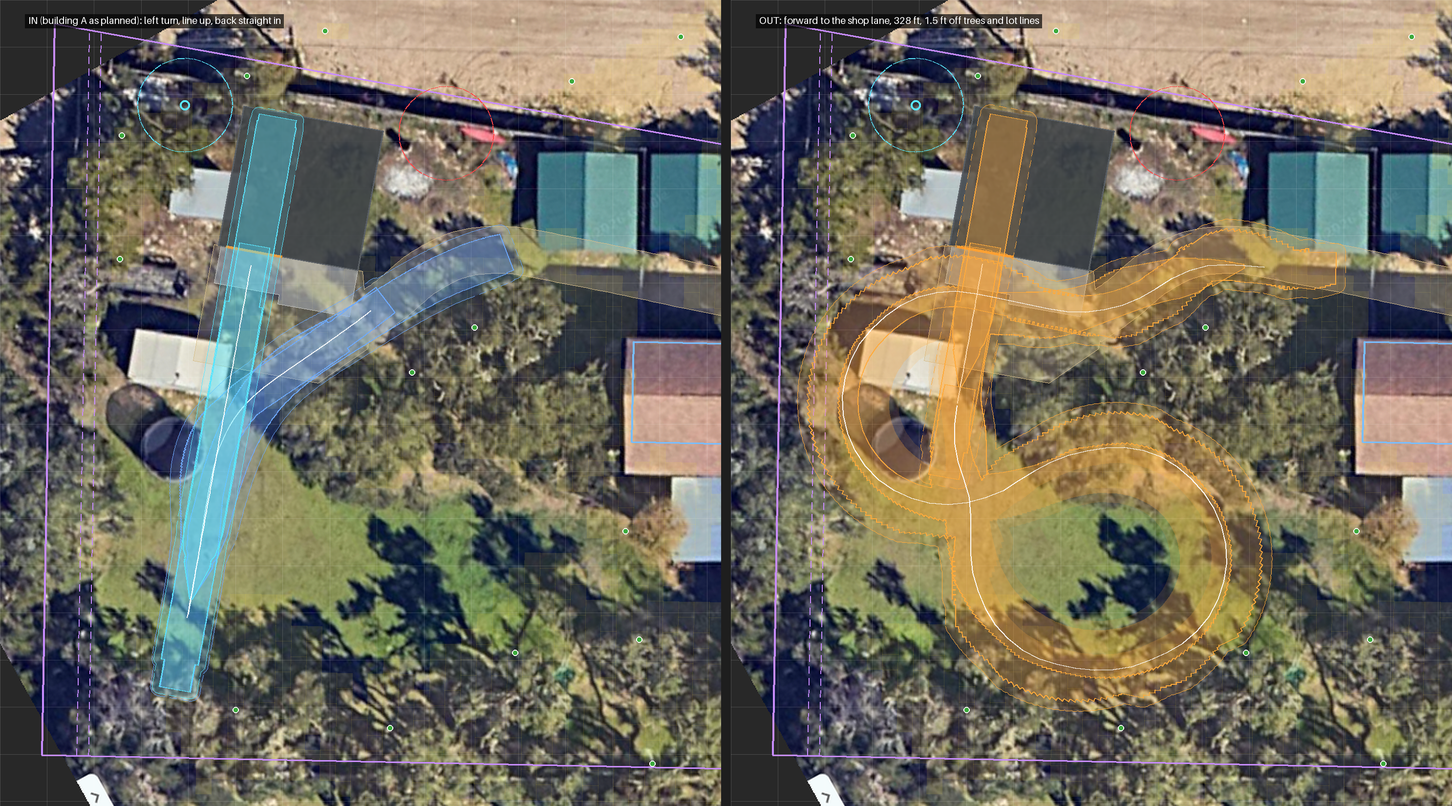
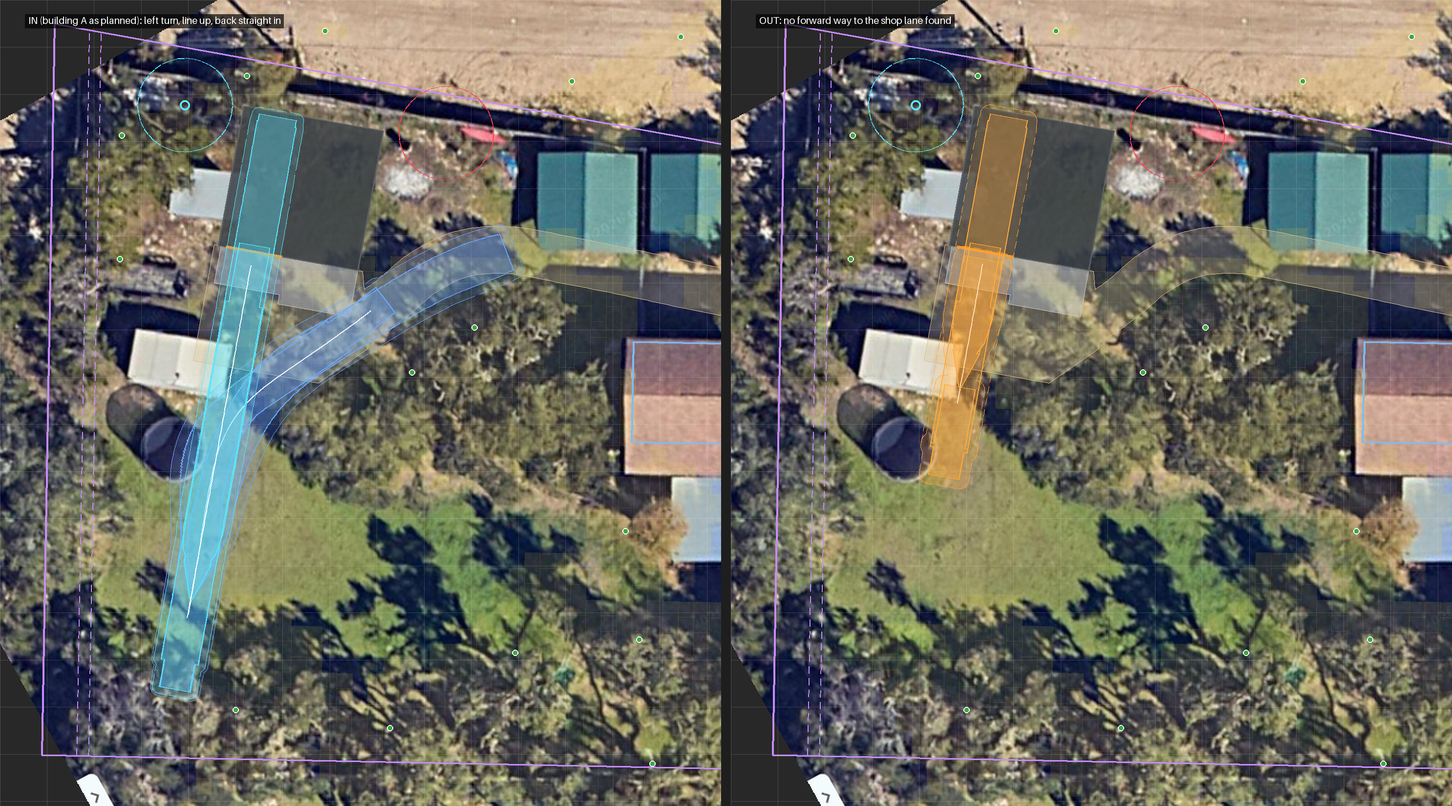
Towing: the way out fits with building A turned 22.5 degrees counter-clockwise
Two corrections to the earlier search. It had to reach the shop lane nearly straight, which
ruled out ways a driver would take; it now finishes within 4 ft and 20 degrees, the trailer
within 25. And with only trunks as obstacles it drove under the middle of the back-lawn oaks'
crowns; the boat may now go only their outer 6 ft in, limbs an arborist can raise.

Set up that way, there's no forward way out as planned or turned 10 degrees either way: each
runs the boat ~19 ft under the crowns. Turned 22.5 degrees counter-clockwise (the owner's
guess) and moved 4.8 ft off the fence, one 184 ft forward move fits 3.5 ft off trunks and lot
lines and only brushes the crowns, about $1k cheaper. The window is narrow (20-24 degrees).
The 10 degree clockwise maps and notes are replaced.

Claude-Session: https://claude.ai/code/session_01DDx3ED6GLpo1Endgi9HoEQ

Changed region(s): [[0.5572, 0.2782, 0.9287, 0.8964], [0.5572, 0.0, 0.712, 0.0618]]

diff --git a/tools/tow_plan.py b/tools/tow_plan.py
@@ -27,14 +27,15 @@ The driver is reasonably good, not a computer. So:
   doesn't count on it.);
 - the hitch angle stays well short of the angle where the boat's bow or the tongue meets the truck's tailgate;
 - the way out (EXITS, search_exit) keeps a margin off the trunks and the lot lines, and the more the better: 1.5 ft
-  is a computer's line, 3.5 ft a person's.
+  is a computer's line, 3.5 ft a person's. The boat may pass under the back-lawn oaks' outer CROWN_EDGE ft (limbs an
+  arborist can raise), not deeper; the drive may run under them, as drawn.
 
 What it found (Oct 30 2026): the back-in fits as asked. The way out doesn't, as one left sweep from the door: the
-back-lawn oaks stand inside the circle it needs. With building A as planned, the only all-forward way onto the shop
-lane is a 330 ft figure-eight with 1.5 ft to spare. Turned 10 degrees clockwise (the doors toward the SW and the open
-lawn; --turn -10) and moved 2.5 ft off the line, it's one sweep: a touch right, a long left loop round the lawn and
-up past the oaks onto the lane, 196 ft, with 3.5 ft to spare. Turning the doors toward the SE, or a full 45 degrees
-either way, makes it worse.
+back-lawn oaks stand inside the circle it needs. With building A as planned, or turned 10 degrees either way, the
+only forward ways out run the boat up to ~19 ft in under those crowns. Turned 22.5 degrees counter-clockwise (the
+doors toward the SSE; --turn 22.5) and moved 4.6 ft off the line, it's one forward sweep: out, a big right loop round
+the open west lawn, then east along the front of the building onto the lane, 184 ft, 3.5 ft off the trunks and lot
+lines and only brushing the crowns' edges. 17.5, 21.25 and 25 degrees don't fit; 45 either way doesn't.
 
 Draws site/tow-paths.png (the whole way from the street) and site/tow-backyard.png (the back yard close up; with
 --turn, site/tow-*-turnN.png), and prints the space each move takes and what it comes near: the building, the house,
@@ -273,18 +274,20 @@ class Phase:
 
 
 # The way out. A left sweep straight from the door can't reach the shop lane: the back-lawn oaks stand inside the
-# circle it needs. What fits is the sweep a driver makes by swinging wide: a touch right toward the back fence, one long
-# left loop round the open lawn, up past the oaks' west side onto the shop court, and right onto the lane. search_exit()
-# finds it: A* over this rig's moves at R_PLAN, forward only, the hitch under 55 degrees, keeping `margin` off the
-# trunks and lot lines and 1.5 ft off the building. Found paths are kept here by building A's turn (degrees, rot_study)
-# as (margin, program); a program is (direction, ft, wheel) moves, the wheel from -1 (right, at R_PLAN) to +1 (left),
-# replayed in REPLAY_STEP steps. --search finds them again (minutes).
+# circle it needs. search_exit() looks for any forward way: A* over this rig's moves at R_PLAN, the hitch under 55
+# degrees, keeping `margin` off the trunks and lot lines, 1.5 ft off the building, and the boat out of the back-lawn
+# oaks' crowns deeper than CROWN_EDGE (but the drive). It may arrive on the lane bent a little (SEARCH_FINISH) and
+# straighten on it. Results are kept here by building A's turn in degrees: (margin, program, or None if none was found
+# at that margin); a program is (direction, ft, wheel) moves, the wheel from -1 (right, at R_PLAN) to +1 (left),
+# replayed in REPLAY_STEP steps. --search finds them again (a minute or a few).
 EXITS = {
-    0.0: (1.5, [(1, 4, 0.5), (1, 8, 1), (1, 4, 0.5), (1, 8, -1), (1, 8, 0), (1, 8, 1), (1, 4, 0.5), (1, 20, 1), (1, 4, 0), (1, 4, 1), (1, 4, 0.5), (1, 8, 1), (1, 4, 0), (1, 40, 1), (1, 4, 0.5), (1, 20, 1), (1, 8, 0.5), (1, 4, 1), (1, 4, 0), (1, 4, 1), (1, 8, -1), (1, 4, -0.5), (1, 56, -1), (1, 4, -0.5), (1, 20, -1), (1, 16, 0), (1, 4, 0.5), (1, 4, 1), (1, 4, 0.5), (1, 4, 1), (1, 4, 0.5), (1, 4, 1), (1, 4, -0.5), (1, 12, -1), (1, 4, -0.5), (1, 4, 0.5)]),
-    -10.0: (3.5, [(1, 4, -1), (1, 4, 0), (1, 4, -0.5), (1, 4, 0.5), (1, 12, 1), (1, 4, 0.5), (1, 28, 1), (1, 4, 0.5), (1, 8, 1), (1, 4, 0.5), (1, 4, 1), (1, 4, 0.5), (1, 24, 1), (1, 4, 0.5), (1, 4, 1), (1, 4, -0.5), (1, 12, -1), (1, 4, 0.5), (1, 8, -0.5), (1, 4, 0.5), (1, 4, -0.5), (1, 32, -1), (1, 4, -0.5), (1, 4, 0.5), (1, 4, 1)]),
+    0.0: (1.5, None),
+    22.5: (3.5, [(1, 56, -1), (1, 4, -0.5), (1, 20, -1), (1, 4, -0.5), (1, 20, -1), (1, 4, -0.5), (1, 8, -1), (1, 12, 0), (1, 4, 1), (1, 4, 0), (1, 12, 1), (1, 4, -0.5), (1, 4, 0), (1, 4, 0.5), (1, 4, -1), (1, 4, 1), (1, 4, -0.5), (1, 8, -1), (1, 4, -0.5)]),
 }
 REPLAY_STEP = 1.0       # ft: the search's own step, so its paths replay exactly
 SEARCH_GOAL = (148.0, 108.4)   # (s, t): on the shop lane east of the shop court, past the building's SE corner
+SEARCH_FINISH = (4.0, 20.0, 25.0)   # ft off the goal, degrees off the lane's line, degrees of bend: then straighten on it
+CROWN_EDGE = 6.0        # ft: how far in under the back-lawn oaks' crowns (lidar tops of 12 ft or more) the boat may go
 
 
 def replay(p: Pose, tr: Truck, k_max: float, program) -> list[Pose]:
@@ -302,8 +305,9 @@ def outline_pts(poly: Polygon, every: float = 1.0) -> np.ndarray:
     return np.array([ring.interpolate(d).coords[0] for d in np.arange(0, ring.length, every)])
 
 
-def search_exit(start: Pose, tr: Truck, k_max: float, walls, trunks, lot: Polygon, margin: float, cap: int = 300000):
-    """The shortest forward way from start onto the shop lane at SEARCH_GOAL, as a program, or None."""
+def search_exit(start: Pose, tr: Truck, k_max: float, walls, trunks, lot: Polygon, crowns, margin: float, cap: int = 400000):
+    """The shortest forward way from start onto the shop lane at SEARCH_GOAL, as a program, or None. crowns: where
+    the boat may not go under the trees."""
     import heapq
 
     import shapely
@@ -312,7 +316,7 @@ def search_exit(start: Pose, tr: Truck, k_max: float, walls, trunks, lot: Polygo
     ss, tt = np.meshgrid(s0 + (np.arange(ns) + 0.5) * res, t0 + (np.arange(nt) + 0.5) * res)
     others = unary_union([Point(q).buffer(2.0) for q in trunks]).buffer(margin)
     grid = (shapely.contains_xy(walls.buffer(0.3 + 1.5), ss.ravel(), tt.ravel()) | shapely.contains_xy(others, ss.ravel(), tt.ravel())
-            | ~shapely.contains_xy(lot.buffer(-margin), ss.ravel(), tt.ravel())).reshape(nt, ns)
+            | shapely.contains_xy(crowns, ss.ravel(), tt.ravel()) | ~shapely.contains_xy(lot.buffer(-margin), ss.ravel(), tt.ravel())).reshape(nt, ns)
     tp_, bp_ = outline_pts(truck_shape(tr)), outline_pts(boat_shape())
 
     def hits(p: Pose) -> bool:
@@ -338,7 +342,8 @@ def search_exit(start: Pose, tr: Truck, k_max: float, walls, trunks, lot: Polygo
         _, g, i = heapq.heappop(openq)
         p = nodes[i][0]
         n_exp += 1
-        if math.hypot(p.x - gx, p.y - gy) < 3.0 and abs(wrap(p.th - g_head)) < math.radians(12) and hitch_deg(p) < 12:
+        if (math.hypot(p.x - gx, p.y - gy) < SEARCH_FINISH[0] and abs(wrap(p.th - g_head)) < math.radians(SEARCH_FINISH[1])
+                and hitch_deg(p) < SEARCH_FINISH[2]):
             prog, j = [], i
             while nodes[j][1] is not None:
                 q, parent, wheel = nodes[j]
@@ -428,7 +433,7 @@ def moves(tr: Truck, k_max: float, A, exit_program) -> list[Phase]:
     lead = [to_st((q.x + k * math.cos(q.th), q.y + k * math.sin(q.th))) for k in (0.0, 6.0)]
     lane_out = ([p for p in SHOP_LANE[::-1][:-1] if p[0] < lead[-1][0] - 8.0] + court[::-1] + SERVICE_DRIVE[4:0:-1]
                 + [(9.0, 94.0), (-3.0, 95.5), (-17.0, 96.5), (-29.0, 101.0), (-33.8, 114.0), (-33.8, 178.0)])
-    lanes_out = drive(q, tr, densify(lead + lane_out, 8), k_max)
+    lanes_out = drive(q, tr, densify(lead + lane_out, 8), k_max) if exit_program else [q]
     return [Phase("in: the street to the shop court", lanes_in, "in"),
             Phase("in: the left turn, lined up on the door", turn, "in"),
             Phase("in: straight back into the bay", back, "back", REVERSE_MARGIN),
@@ -558,21 +563,24 @@ def main(truck: str, radius: float, turn: float, search: bool, margin: float | N
     for t in tr_list:
         if not t["known"]:
             t["name"] = t["name"].replace("lidar treetop", "treetop") + " (trunk?)"
+    can = Canopy(CANOPY)
+    # The back-lawn oaks' crowns, deeper in than CROWN_EDGE, off the drive: where the boat can't go.
+    crowns = unary_union([box(s_ - 1.64, t_ - 1.64, s_ + 1.64, t_ + 1.64) for s_, t_, h, r, c in canopy_in_st(can, to_m, sf)
+                          if h >= 12 and s_ > 135 and t_ < 112]).buffer(0.5).buffer(-0.5)
+    no_go = crowns.buffer(-CROWN_EDGE).difference(unary_union([L["drive"], L["approach"]]).buffer(2.0))
     stored = EXITS.get(turn) if truck == "half" and radius == R_PLAN else None
     if search or stored is None:
-        margin = margin if margin is not None else (stored[0] if stored else 2.5)
-        click.echo(f"Searching for the way out, {margin:g} ft off the trees and lot lines (a few minutes)...")
+        margin = margin if margin is not None else (stored[0] if stored else 3.5)
+        click.echo(f"Searching for the way out, {margin:g} ft off the trees and lot lines (a minute or a few)...")
         probe = moves(tr, k_max, A, [])
         back_trunks = [t["st"] for t in tr_list if 100 < t["st"][0] < 260 and -10 < t["st"][1] < 165]
-        program = search_exit(probe[3].poses[-1], tr, k_max, walls, back_trunks, lot, margin)
-        if program:
-            click.echo("found: " + repr([(d, round(ft), w) for d, ft, w in program]))
+        program = search_exit(probe[3].poses[-1], tr, k_max, walls, back_trunks, lot, no_go, margin)
+        click.echo("found: " + repr([(d, round(ft), w) for d, ft, w in program]) if program else "none found")
     else:
         margin, program = stored
     phases = moves(tr, k_max, A, program)
     for ph in phases:
         ph.swept(tr)
-    can = Canopy(CANOPY)
     cells = [(Point(s_, t_), h) for s_, t_, h, r, c in canopy_in_st(can, to_m, sf) if -45 < s_ < 260 and -10 < t_ < 170]
     gz = lambda s_, t_: ground.natural(*to_m(site([st(s_, t_)])[0])) / FT  # noqa: E731
     cfg = dict(tbl_hide_dataframe_shape=True, tbl_hide_column_data_types=True, tbl_rows=-1, fmt_str_lengths=60, tbl_width_chars=230)
@@ -598,9 +606,9 @@ def main(truck: str, radius: float, turn: float, search: bool, margin: float | N
                           "nearest tree (ft)": f"{near[0]:.1f}: {near[1]}", "septic pipe": round(ph.rig.distance(Point(pipe)), 1),
                           "well": round(ph.rig.distance(Point(well)), 1),
                           "lot line": round(ph.rig.distance(lot.exterior), 1) if lot.contains(ph.rig) else "the street"})
-        crowns = [h for pt, h in cells if ph.boat.contains(pt)]
+        tops = [h for pt, h in cells if ph.boat.contains(pt)]
         room_rows.append({"move": ph.name,
-                          "crowns over the boat": f"{len(crowns) * 10.76:.0f} sq ft, tops {min(crowns):.0f}-{max(crowns):.0f} ft" if crowns else "none",
+                          "crowns over the boat": f"{len(tops) * 10.76:.0f} sq ft, tops {min(tops):.0f}-{max(tops):.0f} ft" if tops else "none",
                           "rig off the planned paving (sq ft)": round(ph.rig.difference(paved).intersection(lot).area),
                           "with the margin (sq ft)": round(ph.slop.difference(paved).intersection(lot).area)})
     click.echo("\nThe moves:")
@@ -636,10 +644,15 @@ def main(truck: str, radius: float, turn: float, search: bool, margin: float | N
     if program:
         lane_line = LineString(catmull_rom(SHOP_LANE))
         q = way.poses[-1]
+        under = way.boat.intersection(crowns).difference(unary_union([L["drive"], L["approach"]]).buffer(2.0))
+        deep = max((crowns.boundary.distance(Point(x, y)) for x in np.arange(under.bounds[0], under.bounds[2], 1.0)
+                    for y in np.arange(under.bounds[1], under.bounds[3], 1.0) if under.contains(Point(x, y))), default=0.0) if not under.is_empty else 0.0
         click.echo(f"Out: the sweep is {sum(ft for _, ft, _ in program):.0f} ft, forward all the way, found keeping {margin:g} ft off the "
-                   f"trunks and lot lines; it ends {lane_line.distance(Point(to_st((q.x, q.y)))):.1f} ft off the shop lane's middle.")
+                   f"trunks and lot lines; it ends {lane_line.distance(Point(to_st((q.x, q.y)))):.1f} ft off the shop lane's middle. "
+                   f"Off the drive, the boat passes under {under.area:.0f} sq ft of the back-lawn oaks' crowns, up to {deep:.0f} ft in from their edge.")
     else:
-        click.echo("Out: no forward sweep onto the shop lane found at that margin.")
+        click.echo(f"Out: no forward way onto the shop lane found {margin:g} ft off the trunks and lot lines, the boat no more than "
+                   f"{CROWN_EDGE:g} ft in under the back-lawn oaks' crowns.")
     lawn_in = unary_union([phases[1].slop, phases[2].slop]).difference(paved).intersection(lot)
     lawn_out = way.slop.difference(paved).intersection(lot)
     click.echo(f"The lawn the moves cross, margins included: {lawn_in.area:,.0f} sq ft in, {lawn_out.area:,.0f} sq ft out, "

diff --git a/site/notes.md b/site/notes.md
@@ -3144,51 +3144,67 @@ the tables below.
 - **Out, as asked, doesn't fit.**
   - One left sweep from the door can't reach the shop lane: the back-lawn oaks (lidar
     treetops at s 160, t 92 and s 173, t 83) stand inside the circle it needs.
-  - The only all-forward way a search found (A* over the rig's moves) is a ~330 ft
-    figure-eight with 1.5 ft to spare. With 2.5 ft, none.
-  - A three-point turn fits, but only ~1–2 ft off the building's SE corner, where the boat's
-    stern swings as it turns onto the lane.
+  - A search (A* over the rig's moves, forward and back) found ways out, but every one
+    runs the boat deep under those oaks' crowns, up to ~19 ft in from their edge. The only
+    other kind is a three-point turn that passes ~1–2 ft off the building's SE corner.
+- **How the search was set up, after two corrections (Oct 30):**
+  - At first it had to arrive on the lane within 12° and almost straight. That ruled out
+    ways a driver would take, arriving bent and straightening on the lane. It now finishes
+    within 4 ft and 20° of the lane, the trailer within 25°.
+  - With only the trunks as obstacles, it then drove under the middle of the oak crowns,
+    where the lidar marks no trunk but low limbs and more trunks are likely. Now the boat
+    may go only the outer 6 ft in under a crown, limbs an arborist can raise. The drive
+    runs under them as drawn.
+  - The 10° clockwise turn recommended earlier the same day came from the first setup. It
+    doesn't hold.
 - **Turning the building** (each turned about its middle, then moved straight off the line
-  until 10 ft clear of it, the well and the septic pipe):
+  until 10 ft clear of it, the well and the septic pipe). A forward way out, with the boat
+  no more than 6 ft in under the oaks' crowns:
 
   | Turn | Off the line | Well | Septic pipe | In | Out, forward |
   |---|---|---|---|---|---|
-  | 45° clockwise (doors SW) | +6.2 ft | 17.9 ft | 21.4 ft | runs off the lot | blocked: the pull-out crosses the back line |
-  | 30° clockwise | +5.5 | 17.9 | 18.6 | runs off the lot | one sweep, 160 ft |
-  | 20° clockwise | +4.2 | 16.6 | 15.2 | runs off the lot | one sweep, 176 ft |
-  | **10° clockwise** | **+2.5** | **14.6** | **13.1** | **fits: bumper ~100 ft out, 4.5 ft off the back line** | **one sweep, 196 ft, 3.5 ft margin** |
-  | As planned | 0 | 12.3 | 13.4 | fits: ~94 ft | figure-eight, 1.5 ft margin only |
-  | 10° counter-clockwise (doors toward SE) | +2.5 | 10.5 | 16.2 | fits: ~88 ft | none |
-  | 20° counter-clockwise | +4.2 | 11.6 | 18.8 | fits: ~86 ft | none |
-  | 30° counter-clockwise | +5.5 | 14.7 | 20.7 | runs off the lot | none |
-  | 45° counter-clockwise (doors SE) | +6.2 | 17.9 | 21.4 | runs into a back-lawn oak | one sweep, 188 ft |
+  | 10° clockwise (doors toward SW) | +2.5 ft | 14.6 ft | 13.1 ft | fits | none, even 1.5 ft off trunks and lot lines |
+  | As planned | 0 | 12.3 | 13.4 | fits: bumper ~94 ft out | none at 1.5 ft |
+  | 10° counter-clockwise | +2.5 | 10.5 | 16.2 | fits | none at 1.5 ft |
+  | 15–17.5° counter-clockwise | | | | | none at 2.5 ft |
+  | 20° counter-clockwise | +4.2 | 11.6 | 18.8 | fits | 2.5 ft margin, not 3 |
+  | 21.25° counter-clockwise | | | | | none at 3 ft |
+  | **22.5° counter-clockwise (doors toward SSE)** | **+4.8** | **12.4** | **19.4** | **fits: bumper ~85 ft out** | **184 ft, 3.5 ft margin, not 4** |
+  | 23.75° counter-clockwise | | | | | 3 ft margin |
+  | 25° counter-clockwise | | | | | none at 2.5 ft |
+  | 30° and 45° counter-clockwise | +5.5, +6.2 | | | | blocked: the pull-out runs into the crowns |
 
-  - The sweeps at 20°, 30° and 45° were found at the 1.5 ft margin; 10° clockwise holds at
-    2.5 and 3.5 ft too.
+  - Without the crown limit, every angle from 10° clockwise to 10° counter-clockwise
+    finds a forward way with 7.5 ft to spare, by driving under the crowns' middles. Those
+    paths are 350–420 ft of loops, not a driver's line.
   - The fence line binds at every angle, not the well.
-  - The cost hardly moves: $81.5–82.8k all in (`shed_cost.py` on each footprint, the slab at
-    its cheapest level). The turned ones sit a little lower and dig a little less.
-- **So turn it 10° clockwise** (the doors toward the SW and the open lawn) and move it
-  2.5 ft off the fence, if that looks right to the family.
-  - **In:** as before, with the bumper ~100 ft out, then 82 ft back.
-  - **Out, 196 ft, all forward:**
-    - pull out ~31 ft until the stern clears the door by 3.5 ft;
-    - steer a touch right, toward the back fence;
-    - hold a long left loop round the open lawn;
-    - come up past the back-lawn oaks' west side (~7 ft from the nearer treetop) onto the
-      shop court, and right onto the lane.
+- **So turn it 22.5° counter-clockwise** (the doors toward the SSE) and move it 4.8 ft off
+  the fence, if that looks right to the family. The owner's own guess was
+  counter-clockwise.
+  - **The cost** is ~$1k less ($81.7k vs. $82.8k, each slab at its cheapest level). At
+    19.4 ft from the septic pipe, the short block wall there mostly goes.
+  - **In:** across the court, a left onto the door's line, and the bumper ~85 ft out when
+    the boat hangs straight. Then 67 ft straight back.
+  - **Out, 184 ft, all forward, 3.5 ft off the trunks and lot lines:**
+    - pull straight out;
+    - hold the wheel right for one big clockwise loop round the open west lawn, past the
+      old shed spot and round the trampoline in the aerial;
+    - come straight back east across the front of the building onto the shop lane.
 
-    The trailer bends at most 53°.
-  - `uv run tools/tow_plan.py --turn -10` draws it (`site/tow-backyard-turn-10.png`).
+    Off the drive, the boat passes under only ~40 sq ft of crown, ≤5 ft in from the edge,
+    against ~340–460 sq ft and up to ~19 ft in at the other angles.
+  - `uv run tools/tow_plan.py --turn 22.5` draws it (`site/tow-backyard-turn+22.5.png`).
+  - **The window is narrow:** 20–24°. Tape the back-lawn oaks' trunks and crown edges
+    before the slab is staked, then rerun with `--search`.
 - **Either way:**
-  - **Limbs:** the boat stands ~9.5 ft with its tower folded. It passes under the back-lawn
-    oaks' west edge (~670 sq ft of crown, lidar tops 8–26 ft) and the crowns over the shop
-    lane. Raise them to ~11 ft over the paths, July–January only (oak wilt).
+  - **Limbs:** the boat stands ~9.5 ft with its tower folded. It passes under the crowns
+    over the shop lane and the court, and the back-lawn oaks' outer edges. Raise them to
+    ~11 ft over the paths, July–January only (oak wilt).
   - **Trunks:** tape the back-lawn oaks' trunks. The lidar gives treetops, which can sit
     several feet off a leaning trunk.
-  - **The lawn:** the moves cross ~3,800 sq ft with their margins (~5,300 as planned). Grass
-    takes an occasional trip in dry weather and ruts when it's wet. Grass pavers or gravel
-    where it's used often.
+  - **The lawn:** turned 22.5°, the moves cross ~3,200 sq ft with their margins. Grass takes
+    an occasional trip in dry weather and ruts when it's wet. Grass pavers or gravel where
+    it's used often.
   - **The aerial is old:** the trampoline in it sits on the sweep. If it's still there, it
     moves.
   - **The ground** is ~7% at most under the paths (2017 lidar).

diff --git a/site/plan.md b/site/plan.md
@@ -5,7 +5,7 @@ sources, corrections and dates. This file says what we're doing, in what order, 
 still undecided. Update it when a decision changes; record the facts behind the change in
 `notes.md`.
 
-Last updated: Oct 30 2026 (towing a boat in and out of building A: the back-in fits; a sweeping exit needs the building turned 10° clockwise and 2.5 ft off the fence, at the same cost. Oct 28: the doors in the south gable end, a 12 × 12 for a boat and a 10 × 8, burgundy with black trim; on 14 ft legs and a slab dug into its high side, with power and closed-cell foam insulation: ~$83k all in, $51k of it the building on its slab; it comes first, and the drive much later).
+Last updated: Oct 30 2026 (towing a boat in and out of building A: the back-in fits; driving out in one move needs the building turned 22.5° counter-clockwise and 4.8 ft off the fence, ~$1k less. Oct 28: the doors in the south gable end, a 12 × 12 for a boat and a 10 × 8, burgundy with black trim; on 14 ft legs and a slab dug into its high side, with power and closed-cell foam insulation: ~$83k all in, $51k of it the building on its slab; it comes first, and the drive much later).
 
 ## The four projects
 
@@ -146,20 +146,25 @@ so the building is ready for one.
     line and pulls on until the boat hangs straight, with the truck's bumper ~94 ft out from
     the door. Then it backs ~76 ft straight in.
   - **Out doesn't, as one sweeping left.** The back-lawn oaks stand inside the circle it
-    needs. The only all-forward way onto the shop lane is a ~330 ft figure-eight, with
-    1.5 ft to spare.
-  - **Turned 10° clockwise and 2.5 ft further off the fence** (the doors toward the SW and
-    the open lawn), the way out is one sweep. It goes a touch right, then a long left loop
-    round the lawn, up past the oaks onto the lane. That's 196 ft, with 3.5 ft to spare, and
-    the back-in still fits.
-    - The cost is the same, within ~$1k.
-    - It ends 14.6 ft from the well and 13.1 ft from the septic pipe.
-    - Turning the doors toward the SE, or a full 45° either way, makes it worse.
+    needs. Every way out the search finds runs the boat ~19 ft in under their crowns,
+    except a three-point turn that passes ~1–2 ft off the building's SE corner.
+  - **Turned 22.5° counter-clockwise and 4.8 ft further off the fence** (the doors toward
+    the SSE; the owner's guess), the way out is one forward move: 184 ft, 3.5 ft off the
+    trunks and lot lines.
+    - Pull out, hold the wheel right for one big loop round the open west lawn, then come
+      straight east across the front of the building onto the shop lane.
+    - The boat only brushes the crowns' edges (~40 sq ft, ≤5 ft in).
+    - The back-in still fits: the bumper ~85 ft out, then 67 ft back.
+    - ~$1k less ($81.7k vs. $82.8k): 19.4 ft from the septic pipe, the short block wall
+      there mostly goes. The well stays 12.4 ft away.
+    - The window is narrow, 20–24°. 10° either way doesn't fit, and neither does 45°.
+    - (A 10° clockwise turn recommended earlier the same day doesn't hold: that search let
+      the boat under the crowns' middles. Notes, "Towing the boat in and out".)
   - **Either way the boat needs:**
     - the back-lawn oaks' limbs raised to ~11 ft over its path (July–January);
     - their trunks taped;
-    - ~3,800 sq ft of lawn that takes the turns, worth grass pavers or gravel if it's used
-      often.
+    - ~3,200 sq ft of lawn that takes the turns (turned 22.5°), worth grass pavers or
+      gravel if it's used often.
 
 **All the doors face south, in the gable end** (owner, Oct 18 and 28 2026), well away from
 the septic pipe. As in the owner's front face (Wolf Steel's configurator, Oct 28):
@@ -303,8 +308,8 @@ Tube frame, dealer-installed (owner, Oct 18 2026: red-iron is out).
   - the roof's color;
   - foam and its barrier, or fiberglass blanket (~$11k);
   - concrete or gravel aprons;
-  - the building's angle: as planned, or turned 10° clockwise and 2.5 ft south, so a boat can
-    sweep out (above; the owner is checking with the family);
+  - the building's angle: as planned, or turned 22.5° counter-clockwise and 4.8 ft south, so a
+    boat can drive out in one move (above; the owner is checking with the family);
   - the strip behind the north wall: rock it (recommended, ~$1–2k placed, vs. ~$0.2k of
     seed in the budget), or terrace it behind a low limestone boulder wall (~$3–5k more);
   - insulated doors and a mini-split, now or later;

diff --git a/CLAUDE.md b/CLAUDE.md
@@ -63,7 +63,7 @@ Each script carries its dependencies inline (PEP 723). Run them from the repo ro
 | `front_plan.py` | `site/front-yard.png` (the front of the drive: loop D's legs, the forecourt and the porte-cochère vs. the building line and the lidar trees, prints clearances); old-drive and tree shapes in `front_layout.py` |
 | `drive_layout.py` | the drive system's shapes in survey (s, t) feet (lanes, forecourt, porte-cochère, courts, materials); shared by `drive_plan.py`, `front_plan.py`, `impervious_cover.py` and `plan3d.py` |
 | `drive_plan.py` | `site/drives.png` (the whole drive over the aerial), plus clearances to trunks and lines, grades, areas and impervious cover (printed tables; no budget while the drive is deferred) |
-| `tow_plan.py` | `site/tow-backyard.png` and `site/tow-paths.png`: a pickup towing the 22 ft boat in from the street, the left turn that lines it up on the boat door, the straight back-in, and the way out to the street, as swept areas with a person's margins (printed tables: lengths, hitch angles, clearances to the building, house, trees, well, septic pipe and lot lines, crowns over the boat, lawn crossed). The way out is found by an A* search over the rig's moves (`--search`, minutes) and kept in `EXITS` by building A's turn. `--turn -10` turns building A 10° clockwise and moves it off the line (`site/tow-*-turn-10.png`); `--truck hd` for a 3/4-ton |
+| `tow_plan.py` | `site/tow-backyard.png` and `site/tow-paths.png`: a pickup towing the 22 ft boat in from the street, the left turn that lines it up on the boat door, the straight back-in, and the way out to the street, as swept areas with a person's margins (printed tables: lengths, hitch angles, clearances to the building, house, trees, well, septic pipe and lot lines, crowns over the boat, lawn crossed). The way out is found by an A* search over the rig's moves, keeping the boat out of the back-lawn oaks' crowns past their outer 6 ft (`--search`, a minute or a few), and kept in `EXITS` by building A's turn. As planned there's none; `--turn 22.5` turns building A 22.5° counter-clockwise and moves it off the line (`site/tow-*-turn+22.5.png`), where one forward move fits; `--truck hd` for a 3/4-ton |
 | `house_layout.py` | the house in 3D, a first pass (walls, roofs, porch, deck, chimney, known openings) in survey (s, t) feet; used by `plan3d.py` |
 | `envelope_plan.py` | `site/envelope.png` (where a building fits) |
 | `site_b_plan.py` | `site/site-b.png` (the chosen site) |
